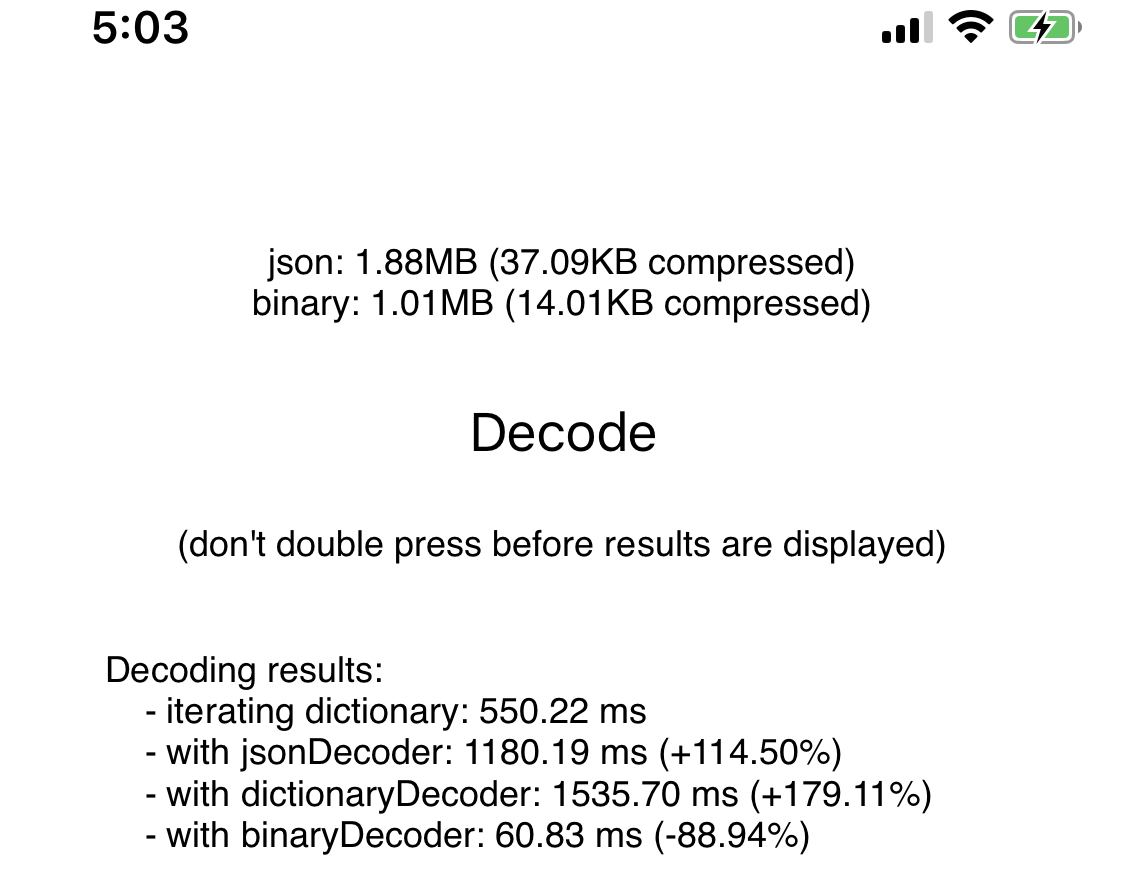
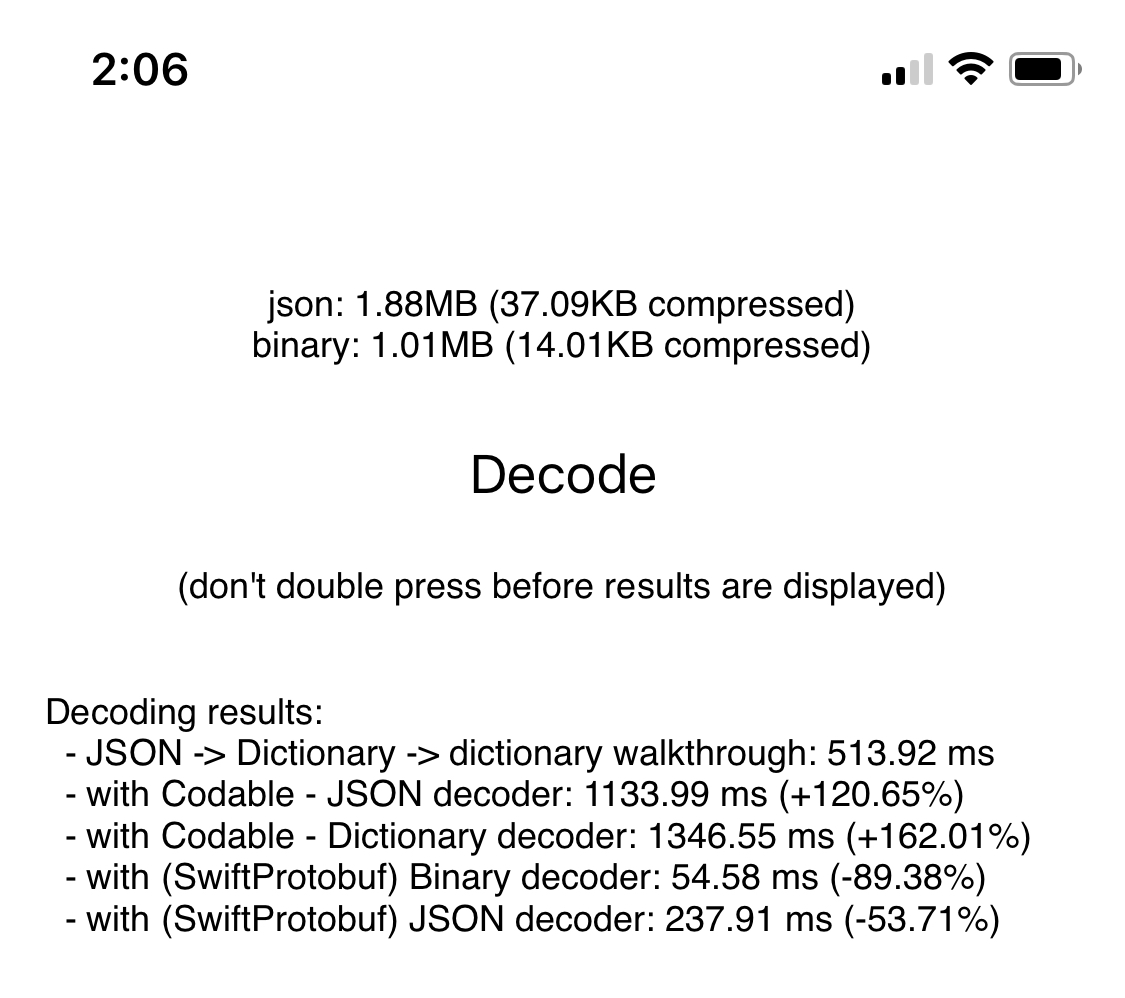
test SwiftProtobuff JSON parsing

diff --git a/DecodableExperimentation/ViewController.swift b/DecodableExperimentation/ViewController.swift
@@ -7,10 +7,11 @@ import SnapKit
 import Foundation
 
 enum Decoding: String, CaseIterable {
-  case dictionaryParsing = "iterating dictionary"
-  case jsonDecoder = "JSON decoder"
-  case dictionaryDecoder = "Dictionary decoder"
-  case binaryDecoder = "Binary decoder"
+  case dictionaryParsing = "JSON -> Dictionary -> dictionary walkthrough"
+  case jsonDecoder = "Codable - JSON decoder"
+  case dictionaryDecoder = "Codable - Dictionary decoder"
+  case binaryDecoder = "(SwiftProtobuf) Binary decoder"
+  case binaryJSONDecoder = "(SwiftProtobuf) JSON decoder"
 }
 
 class ViewController: UIViewController {
@@ -40,6 +41,10 @@ class ViewController: UIViewController {
     button.setTitle("Decode", for: .normal)
     buttonMessage.text = "(don't double press before results are displayed)"
     buttonMessage.textAlignment = .center
+
+    buttonMessage.isUserInteractionEnabled = false
+    dataSizeView.isUserInteractionEnabled = false
+    resultView.isUserInteractionEnabled = false
 
     let buttonTap = UITapGestureRecognizer(target: self, action: #selector(didTapButton))
     button.addGestureRecognizer(buttonTap)
@@ -75,7 +80,7 @@ binary: \(formatSize(binaryData)) (\(formatSize(try! (binaryData as NSData).comp
     }
 
     resultView.snp.makeConstraints { maker in
-      maker.width.equalTo(view.snp.width).offset(-60)
+      maker.width.equalTo(view.snp.width).offset(-20)
       maker.height.equalTo(300)
       maker.centerX.equalTo(view.snp.centerX)
       maker.topMargin.equalTo(buttonMessage.snp.bottom).offset(10)
@@ -115,6 +120,12 @@ binary: \(formatSize(binaryData)) (\(formatSize(try! (binaryData as NSData).comp
     }
     latencies[.binaryDecoder] = Date().timeIntervalSince(t0)
 
+    t0 = Date()
+    for _ in 0..<n {
+      let value = try! BinaryType(jsonUTF8Data: data)
+    }
+    latencies[.binaryJSONDecoder] = Date().timeIntervalSince(t0)
+
     displayResult()
 
     isDecoding = false
@@ -142,12 +153,12 @@ binary: \(formatSize(binaryData)) (\(formatSize(try! (binaryData as NSData).comp
     }
     var text = """
     Decoding results:
-        - iterating dictionary: \(Double(baselineLatency * 1000).withDecinal(2)) ms
+      - \(Decoding.dictionaryParsing.rawValue): \(Double(baselineLatency * 1000).withDecinal(2)) ms
     """
 
     Decoding.allCases.filter { $0 != .dictionaryParsing }.forEach { decoding in
       if let latency = latencies[decoding] {
-        text = text.appending("\n    - with \(decoding): \(Double(latency * 1000).withDecinal(2)) ms (\(delta(baseline: baselineLatency, newValue: latency)))")
+        text = text.appending("\n  - with \(decoding.rawValue): \(Double(latency * 1000).withDecinal(2)) ms (\(delta(baseline: baselineLatency, newValue: latency)))")
       }
     }
     self.resultView.text = text
